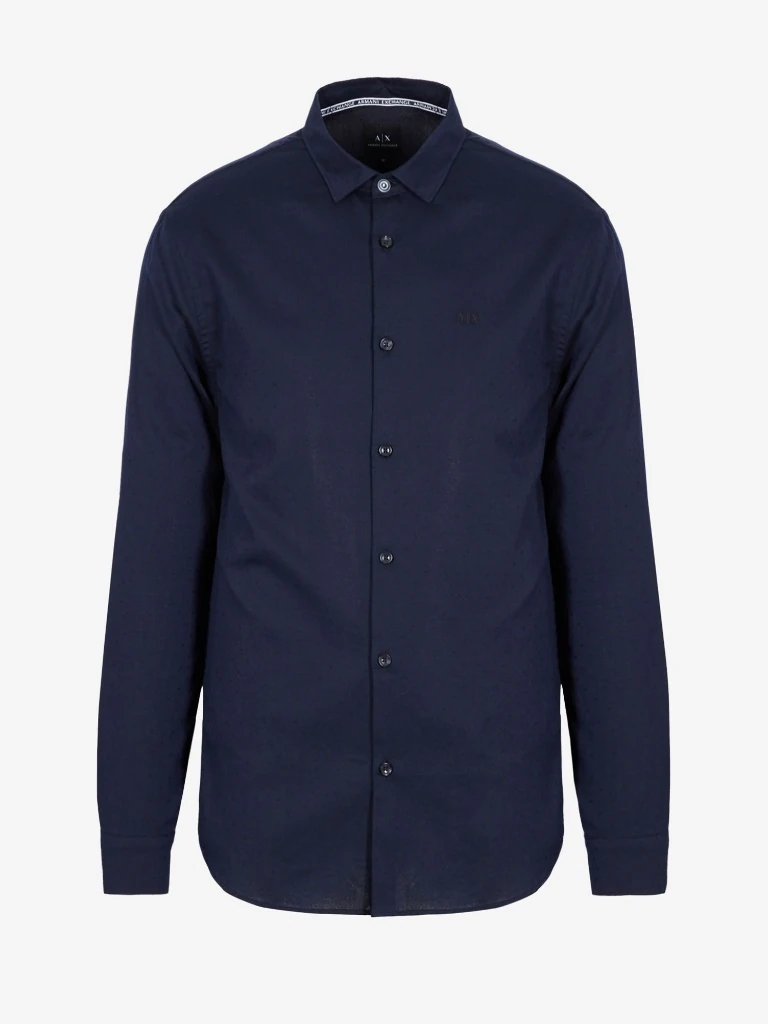
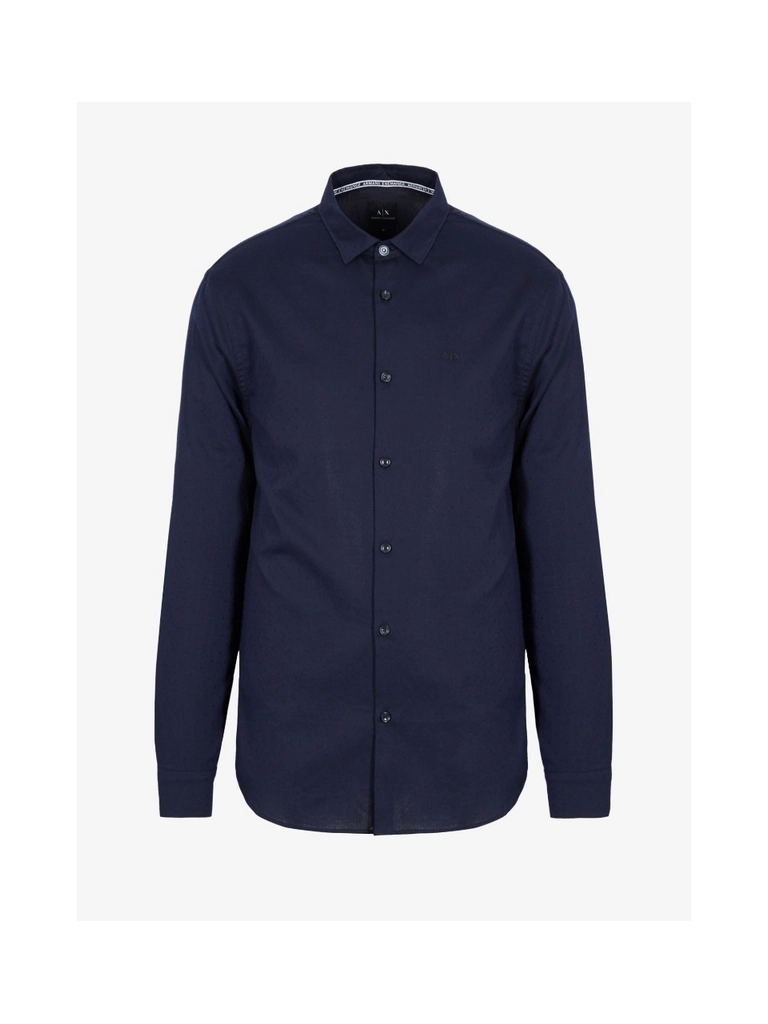
Update male wild cloth_upper_1 thumbnail after 20% inset.

Changed region(s): [[0.125, 0.0625, 0.875, 0.9062], [0.4688, 0.4375, 0.5, 0.4688]]

diff --git a/FitVTON/index.html b/FitVTON/index.html
@@ -1602,7 +1602,7 @@
 
 <script>
 (function () {
-  var VER = '?v=5';
+  var VER = '?v=6';
   var GENDERS = {
     f: {
       base: 'assets/wild/',
